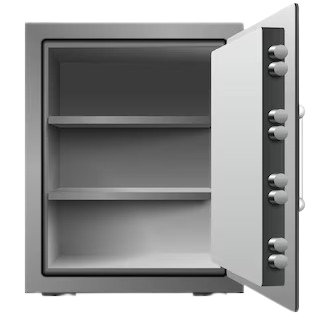
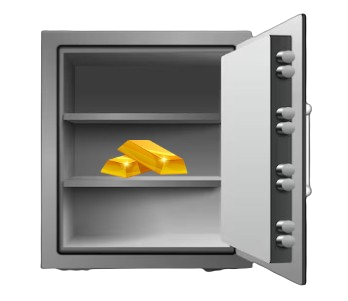
lock-animate-11

diff --git a/index.html b/index.html
@@ -93,7 +93,7 @@
         class="container h-100 d-flex justify-content-center align-items-center"
       >
         <div
-          class="introduction row w-100 h-50 justify-content-center align-items-center position-relative"
+          class="introduction row w-100 h-50 justify-content-center align-items-center position-relative d-none"
         >
           <div class="lock-con col-2">
             <div class="lock w-100 h-100">
@@ -136,6 +136,9 @@
             <p>Click the "Unlock" button to check if your guess is correct.</p>
           </div>
           <div class="got-it-btn col-6 col-lg-2 text-center">GOT IT</div>
+        </div>
+        <div class="end-game row w-100 h-50 justify-content-center align-items-center">
+          <div class="won col-10 col-lg-4 position-relative"></div>
         </div>
       </div>
     </div>

diff --git a/script.js b/script.js
@@ -29,7 +29,6 @@ pressBtn.volume = 0.5;
 deleteBtn.volume = 1;
 
 (function () {
-  soundController(introSound);
   // Hunts
   hintCons.forEach((hint) => {
     for (let i = 0; i < numberLength; i++) {
@@ -89,8 +88,10 @@ deleteBtn.volume = 1;
     }
     entrance.appendChild(div);
   }
-
   genUniqueNumbers(numberLength);
+  setTimeout(() => {
+    soundController(introSound);
+  }, 1000);
 })();
 
 startBtn.onclick = () => {

diff --git a/style.css b/style.css
@@ -29,6 +29,18 @@ body {
     #e0e0e0 100%
   );
 }
+.won {
+  height: 60%;
+  background: url(./images/safe-locked.png) center no-repeat;
+  background-size: 100% 100%;
+  animation: open-safe 1s 2s linear forwards;
+}
+@keyframes open-safe {
+  to {
+    background: url(./images/safe-unlocked.png) center no-repeat;
+    background-size: 100% 100%;
+  }
+}
 
 header {
   height: 10%;
